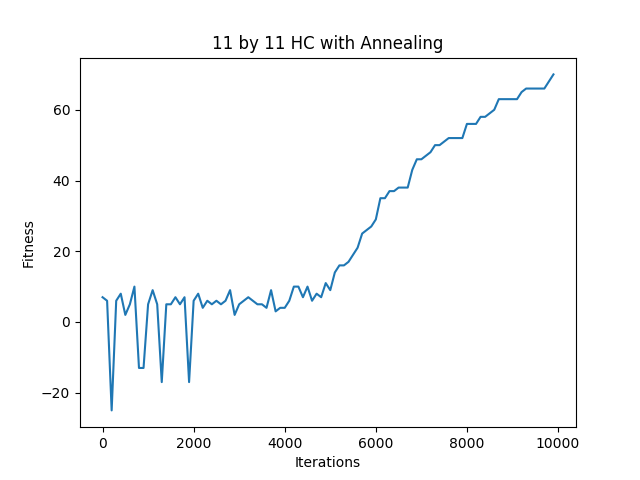
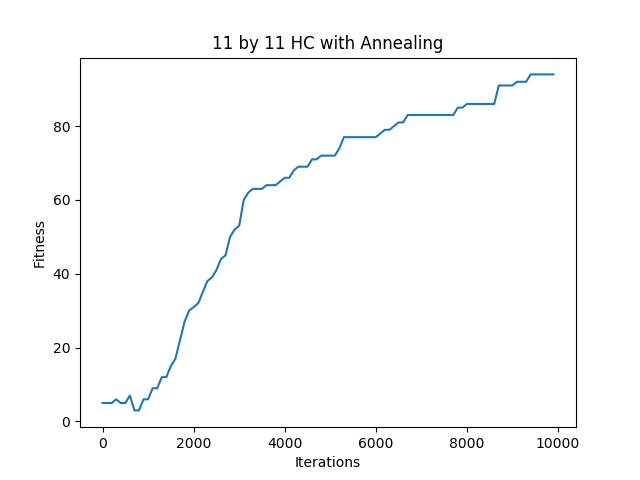
solution finding

diff --git a/puzzle/search.py b/puzzle/search.py
@@ -4,6 +4,7 @@ import matplotlib.pyplot as plt
 from flask import Flask
 from flask import jsonify
 from flask_cors import CORS, cross_origin
+from flask import request
 app = Flask(__name__)
 cors = CORS(app)
 
@@ -68,16 +69,22 @@ def hill_restarts(n = 5, restarts = 10, iters = 100, report = 100, p=0, temperat
 @app.route('/climb')
 @cross_origin()
 def climbing(n=5):
-    iters = 5000
-    puz, best, tempdata = hill_restarts(n, restarts=1, iters=iters, report=100, p=0.2, temperature=0, decay=0.999)
+    n = int(request.args.get('n'))
+    iters = request.args.get('iters')
+    if(iters==None):
+        iters=5000
+    else:
+        iters=int(iters)
+
+    puz, best, tempdata = hill_restarts(n, restarts=1, iters=iters, report=100, p=0, temperature=0, decay=0.999)
     depth,b = evaluate(puz)
     puz = puz.flatten()
     depth = depth.flatten()
 
     return jsonify(
-        Cells=list(puz),
+        Cells=list(puz[:-1]),
         DepthBFS=list(depth),
-        fitness=best,
+        Fitness=best,
         Iterations=iters
     )
 
@@ -89,82 +96,81 @@ def rand_value(loc, n):
 
 if __name__=='__main__':
     #puz = gen_random(501)
-    m = np.mat('2 2 2 4 3; \
-            2 2 3 3 3;\
-            3 3 2 3 3;\
-            4 3 2 2 2;\
-            1 2 1 4 0')
-    n = np.mat('3 3 2 4 3;\
-                2 2 2 1 1;\
-                4 3 1 3 4;\
-                2 3 1 1 3;\
-                1 1 3 2 0')
-    puz = np.array(n)
+    # m = np.mat('2 2 2 4 3; \
+    #         2 2 3 3 3;\
+    #         3 3 2 3 3;\
+    #         4 3 2 2 2;\
+    #         1 2 1 4 0')
+    # n = np.mat('3 3 2 4 3;\
+    #             2 2 2 1 1;\
+    #             4 3 1 3 4;\
+    #             2 3 1 1 3;\
+    #             1 1 3 2 0')
+    # puz = np.array(n)
     # print(puz)
     # print(evaluate(puz))
-    # print(hill_climbing(puz, 1))
 
-    # sizes = [5,7,9,11]
-    # num_runs = 50
-    #
-    # iters = 1000
-    # report = 50
-    #
-    # for n in sizes:
-    #     data = np.zeros(int(iters/report))
-    #
-    #     for i in range(num_runs):
-    #         puz, best, tempdata = hill_restarts(n,restarts=1,iters=iters,report=report, p= 0.2, temperature = 0, decay=0.999)
-    #         print("Restarts: ", puz, best)
-    #         data = data + tempdata
-    #
-    #     plt.figure()
-    #     plt.plot(np.arange(0,iters,report),data/num_runs)
-    #     plt.ylabel('Fitness')
-    #     plt.xlabel('Iterations')
-    #     plt.title('{} by {} HC with Random Walk'.format(n,n))
-    #     plt.savefig('plots/{}by{}rwalk.png'.format(n,n))
+    sizes = [5,7,9,11]
+    num_runs = 50
+
+    iters = 1000
+    report = 50
+
+    for n in sizes:
+        data = np.zeros(int(iters/report))
+
+        for i in range(num_runs):
+            puz, best, tempdata = hill_restarts(n,restarts=1,iters=iters,report=report, p= 0, temperature = 80, decay=0.95)
+            print("Restarts: ", puz, best)
+            data = data + tempdata
+
+        plt.figure()
+        plt.plot(np.arange(0,iters,report),data/num_runs)
+        plt.ylabel('Fitness')
+        plt.xlabel('Iterations')
+        plt.title('{} by {} HC with Annealing'.format(n,n))
+        plt.savefig('plots/{}by{}anneal.png'.format(n,n))
 
 
-    # puz, best, data = hill_restarts(11, restarts=1, iters=10000, report=100, p=0.2, temperature=0, decay=0)
+    # puz, best, data = hill_restarts(11, restarts=1, iters=10000, report=100, p=0.0025, temperature=0, decay=0)
     # print("Basic: ", puz, best)
     # plt.figure()
     # plt.plot(np.arange(0, 10000, 100), data)
     # plt.ylabel('Fitness')
     # plt.xlabel('Iterations')
-    # plt.title('{} by {} HC with Random Walk'.format(11, 11))
-    # plt.savefig('plots/{}by{}rwalkdeep.png'.format(11, 11))
+    # plt.title('{} by {} HC with Annealing'.format(11, 11))
+    # plt.savefig('plots/{}by{}annealdeep.png'.format(11, 11))
 
 
 
     #try different params
 
-    ps = np.array([.02,.01,.005,.002,.001,.0005])
+    # ps = np.array([.02,.01,.005,.002,.001,.0005])
+    #
+    # bestp = 0
+    # bestval = -1
+    # pgraph = []
+    # for p in ps:
+    #     data = np.zeros(30)
+    #     for i in range(2):
+    #         puz, best, datatemp = hill_restarts(11, restarts=1, iters=3000, report=100, p=p, temperature=0, decay=0.999)
+    #         data += datatemp
+    #     data = data/2
+    #     pgraph.append(data[-1])
+    #     if(data[-1]>bestval):
+    #         bestp = p
+    #         bestval = data[-1]
+    #
+    # print(bestp,bestval)
+    #
+    # plt.figure()
+    # plt.plot(ps,np.array(pgraph))
+    # plt.ylabel('Average Evaluation')
+    # plt.xlabel('Value of p')
+    # plt.title('Determining good value for p'.format(11, 11))
+    # plt.savefig('plots/pgraph')
 
-    bestp = 0
-    bestval = -1
-    pgraph = []
-    for p in ps:
-        data = np.zeros(30)
-        for i in range(2):
-            puz, best, datatemp = hill_restarts(11, restarts=1, iters=3000, report=100, p=p, temperature=0, decay=0.999)
-            data += datatemp
-        data = data/2
-        pgraph.append(data[-1])
-        if(data[-1]>bestval):
-            bestp = p
-            bestval = data[-1]
-
-    print(bestp,bestval)
-
-    plt.figure()
-    plt.plot(ps,np.array(pgraph))
-    plt.ylabel('Average Evaluation')
-    plt.xlabel('Value of p')
-    plt.title('Determining goo value for p'.format(11, 11))
-    plt.savefig('plots/pgraph')
-
-    # puz, best, data = hill_restarts(11, restarts=1, iters=10000, report=100, p=0, temperature=100, decay=0.999)
+    # puz, best, data = hill_restarts(11, restarts=1, iters=10000, report=100, p=0, temperature=100, decay=0.995)
     # print("Basic: ", puz, best)
     # plt.figure()
     # plt.plot(np.arange(0, 10000, 100), data)

diff --git a/puzzle/evaluate.py b/puzzle/evaluate.py
@@ -1,17 +1,37 @@
 import numpy as np
 from flask import Flask
 
+
 def gen_random(n=5):
     puzzle = [[np.random.randint(1,max(n-(r), r-1, n-(c), c-1)+1) for r in range(1,n+1)] for c in range(1,n+1)]
     puzzle[n-1][n-1] = 0
     return np.array(puzzle)
 
-def evaluate(puzzle):
+def readFromText():
+    pass
+
+def solutionChain(sol):
+    n = np.shape(sol)[0]
+    print(n)
+    curr = [n-1,n-1]
+    chain = []
+
+    while(curr != [0,0]):
+        chain.insert(0,curr)
+        curr = list(sol[curr[0],curr[1]])
+    return chain
+
+
+def evaluate(puzzle, getSol = False):
+    n = 0
+
     if(len(np.shape(puzzle)) == 2):
         n = np.shape(puzzle)[1]
     else:
         n = int(np.sqrt(np.shape(puzzle)[0]))
         puzzle = puzzle.reshape(n,n)
+
+    sol = np.zeros((n,n,2), dtype=int)
 
     visited = np.zeros(np.shape(puzzle), dtype=int)
     ans = np.zeros(np.shape(puzzle), dtype=int)
@@ -39,6 +59,7 @@ def evaluate(puzzle):
 
         for i in moves:
             if(visited[i] == 0):
+                sol[i] = loc
                 q.append(i)
                 visited[i] = 1
                 accum+=1
@@ -47,6 +68,8 @@ def evaluate(puzzle):
     if(quality == 0):
         quality = -(np.sum(ans==0)-1)
     ans[0,0] = 0
+    if(getSol):
+        return sol
     return ans, quality
 
 
@@ -80,6 +103,9 @@ if __name__=='__main__':
                 4 3 1 3 4;\
                 2 3 1 1 3;\
                 1 1 3 2 0')
-    #puz = np.array(m)
+    puz = np.array(m)
     print(puz)
-    print(evaluate(puz))
+    solution = evaluate(puz,getSol=True)
+    print(solution)
+    chain = solutionChain(solution)
+    print(chain)
